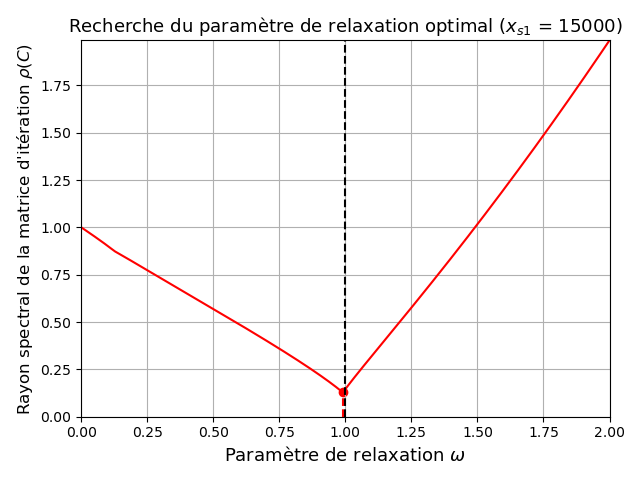
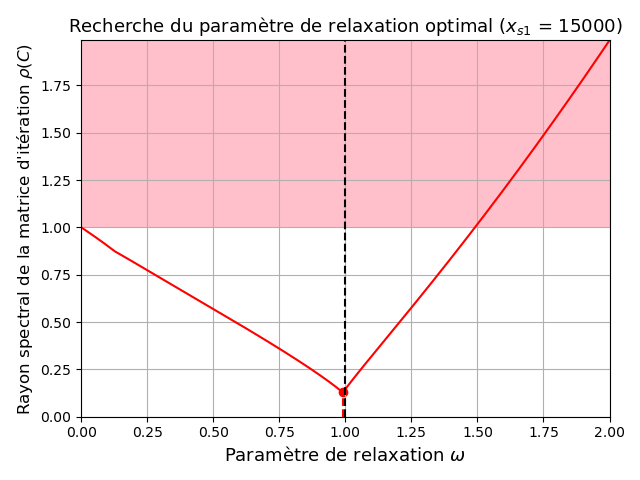
-Update the relaxation method illustrations for Chapter 5. -Add a corresponding Python script.

diff --git a/scripts/PH515_chap5_relaxation.py b/scripts/PH515_chap5_relaxation.py
@@ -1,0 +1,61 @@
+import numpy as np
+import matplotlib.pyplot as plt
+
+xs_1 = 22250
+
+pos_rec = np.array([4205,158,4777],dtype=np.float64) #Coordonnées du récepteur GPS
+
+pos_sat1 = np.array([xs_1,13000,18000],dtype=np.float64) #Coordonnées du satellite GPS 1
+pos_sat2 = np.array([1000,6000,24000],dtype=np.float64) #Coordonnées du satellite GPS 2
+pos_sat3 = np.array([19000,2000,19000],dtype=np.float64) #Coordonnées du satellite GPS 3
+pos_sat4 = np.array([12000,12000,26000],dtype=np.float64) #Coordonnées du satellite GPS 4
+
+#Génération des temps de retard------------------------------------------------
+
+t1 = ((sum((pos_rec-pos_sat1)**2))**0.5)/3e5 #Temps de retard associé au satellite GPS 1
+t2 = ((sum((pos_rec-pos_sat2)**2))**0.5)/3e5 #Temps de retard associé au satellite GPS 2
+t3 = ((sum((pos_rec-pos_sat3)**2))**0.5)/3e5 #Temps de retard associé au satellite GPS 3
+t4 = ((sum((pos_rec-pos_sat4)**2))**0.5)/3e5 #Temps de retard associé au satellite GPS 4
+
+
+#Génération des matrices A et b------------------------------------------------
+
+A = np.vstack((pos_sat2-pos_sat1,pos_sat3-pos_sat1,pos_sat4-pos_sat1))
+
+b_row1 = 0.5*(sum(pos_sat2**2)-sum(pos_sat1**2)-(3e5*t2)**2+(3e5*t1)**2)
+b_row2 = 0.5*(sum(pos_sat3**2)-sum(pos_sat1**2)-(3e5*t3)**2+(3e5*t1)**2)
+b_row3 = 0.5*(sum(pos_sat4**2)-sum(pos_sat1**2)-(3e5*t4)**2+(3e5*t1)**2)
+
+b = np.array([b_row1,b_row2,b_row3])
+
+#Choix du paramètre de relaxation----------------------------------------------
+
+D = np.diag(np.diag(A))
+E = np.tril(A)-D
+F = np.triu(A)-D
+
+omega = np.linspace(0.001,2,2000)
+rho = np.zeros(2000)
+
+for i in range(2000):
+    
+    C = np.dot(np.linalg.inv(D-omega[i]*E),(1-omega[i])*D+omega[i]*F)
+    
+    rho[i] = np.max(abs(np.linalg.eigvals(C)))
+    
+idx_min = np.argmin(rho)
+
+plt.fill([0,0,2,2],[1,np.max(rho),np.max(rho),1],'pink')    
+plt.plot(omega,rho,'r-')
+plt.plot([omega[idx_min],omega[idx_min]],[0,rho[idx_min]],'r--')
+plt.scatter(omega[idx_min],rho[idx_min],color='r',marker='o')
+plt.plot([1,1],[0,np.max(rho)],'k--')
+plt.xlim([0,2])
+plt.ylim([0,np.max(rho)])
+plt.xlabel(r"Paramètre de relaxation $\omega$",fontsize=13)
+plt.ylabel(r"Rayon spectral de la matrice d'itération $\rho(C)$",fontsize=12)
+plt.title(r"Recherche du paramètre de relaxation optimal ($x_{s1}$ = "+str(xs_1)+")",fontsize=13)
+plt.grid()
+plt.tight_layout()
+
+plt.savefig('C:/Users/oudart/Documents/Enseignements/Blog_PH515/Chap5_relaxation_optimale_xs1_'+str(xs_1)+'.png')
